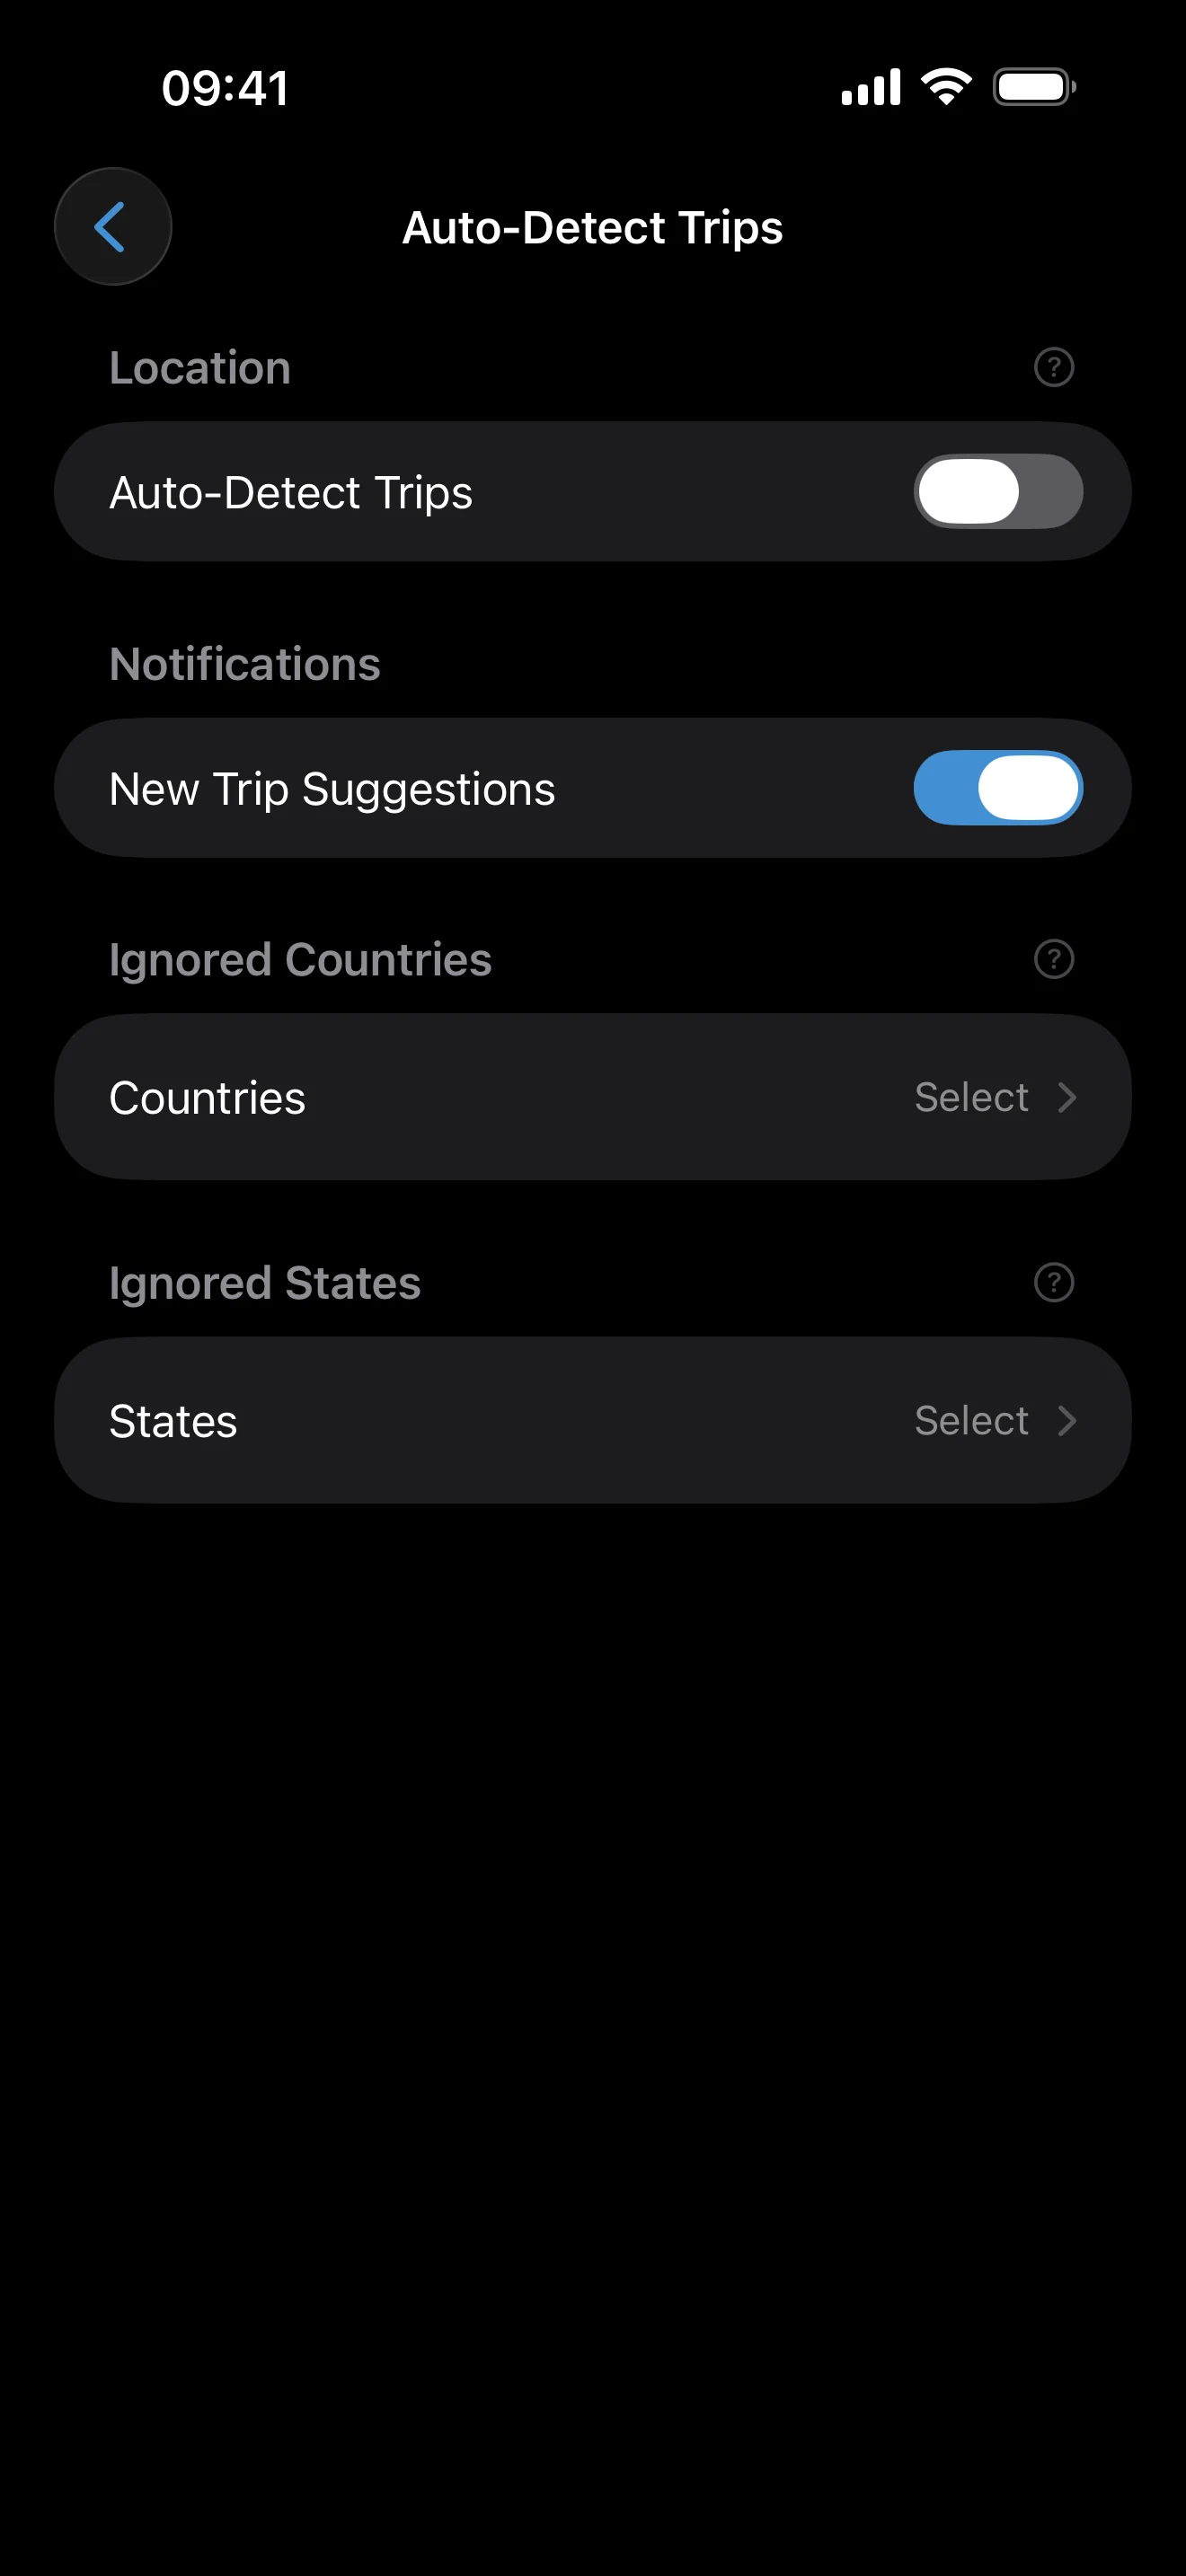
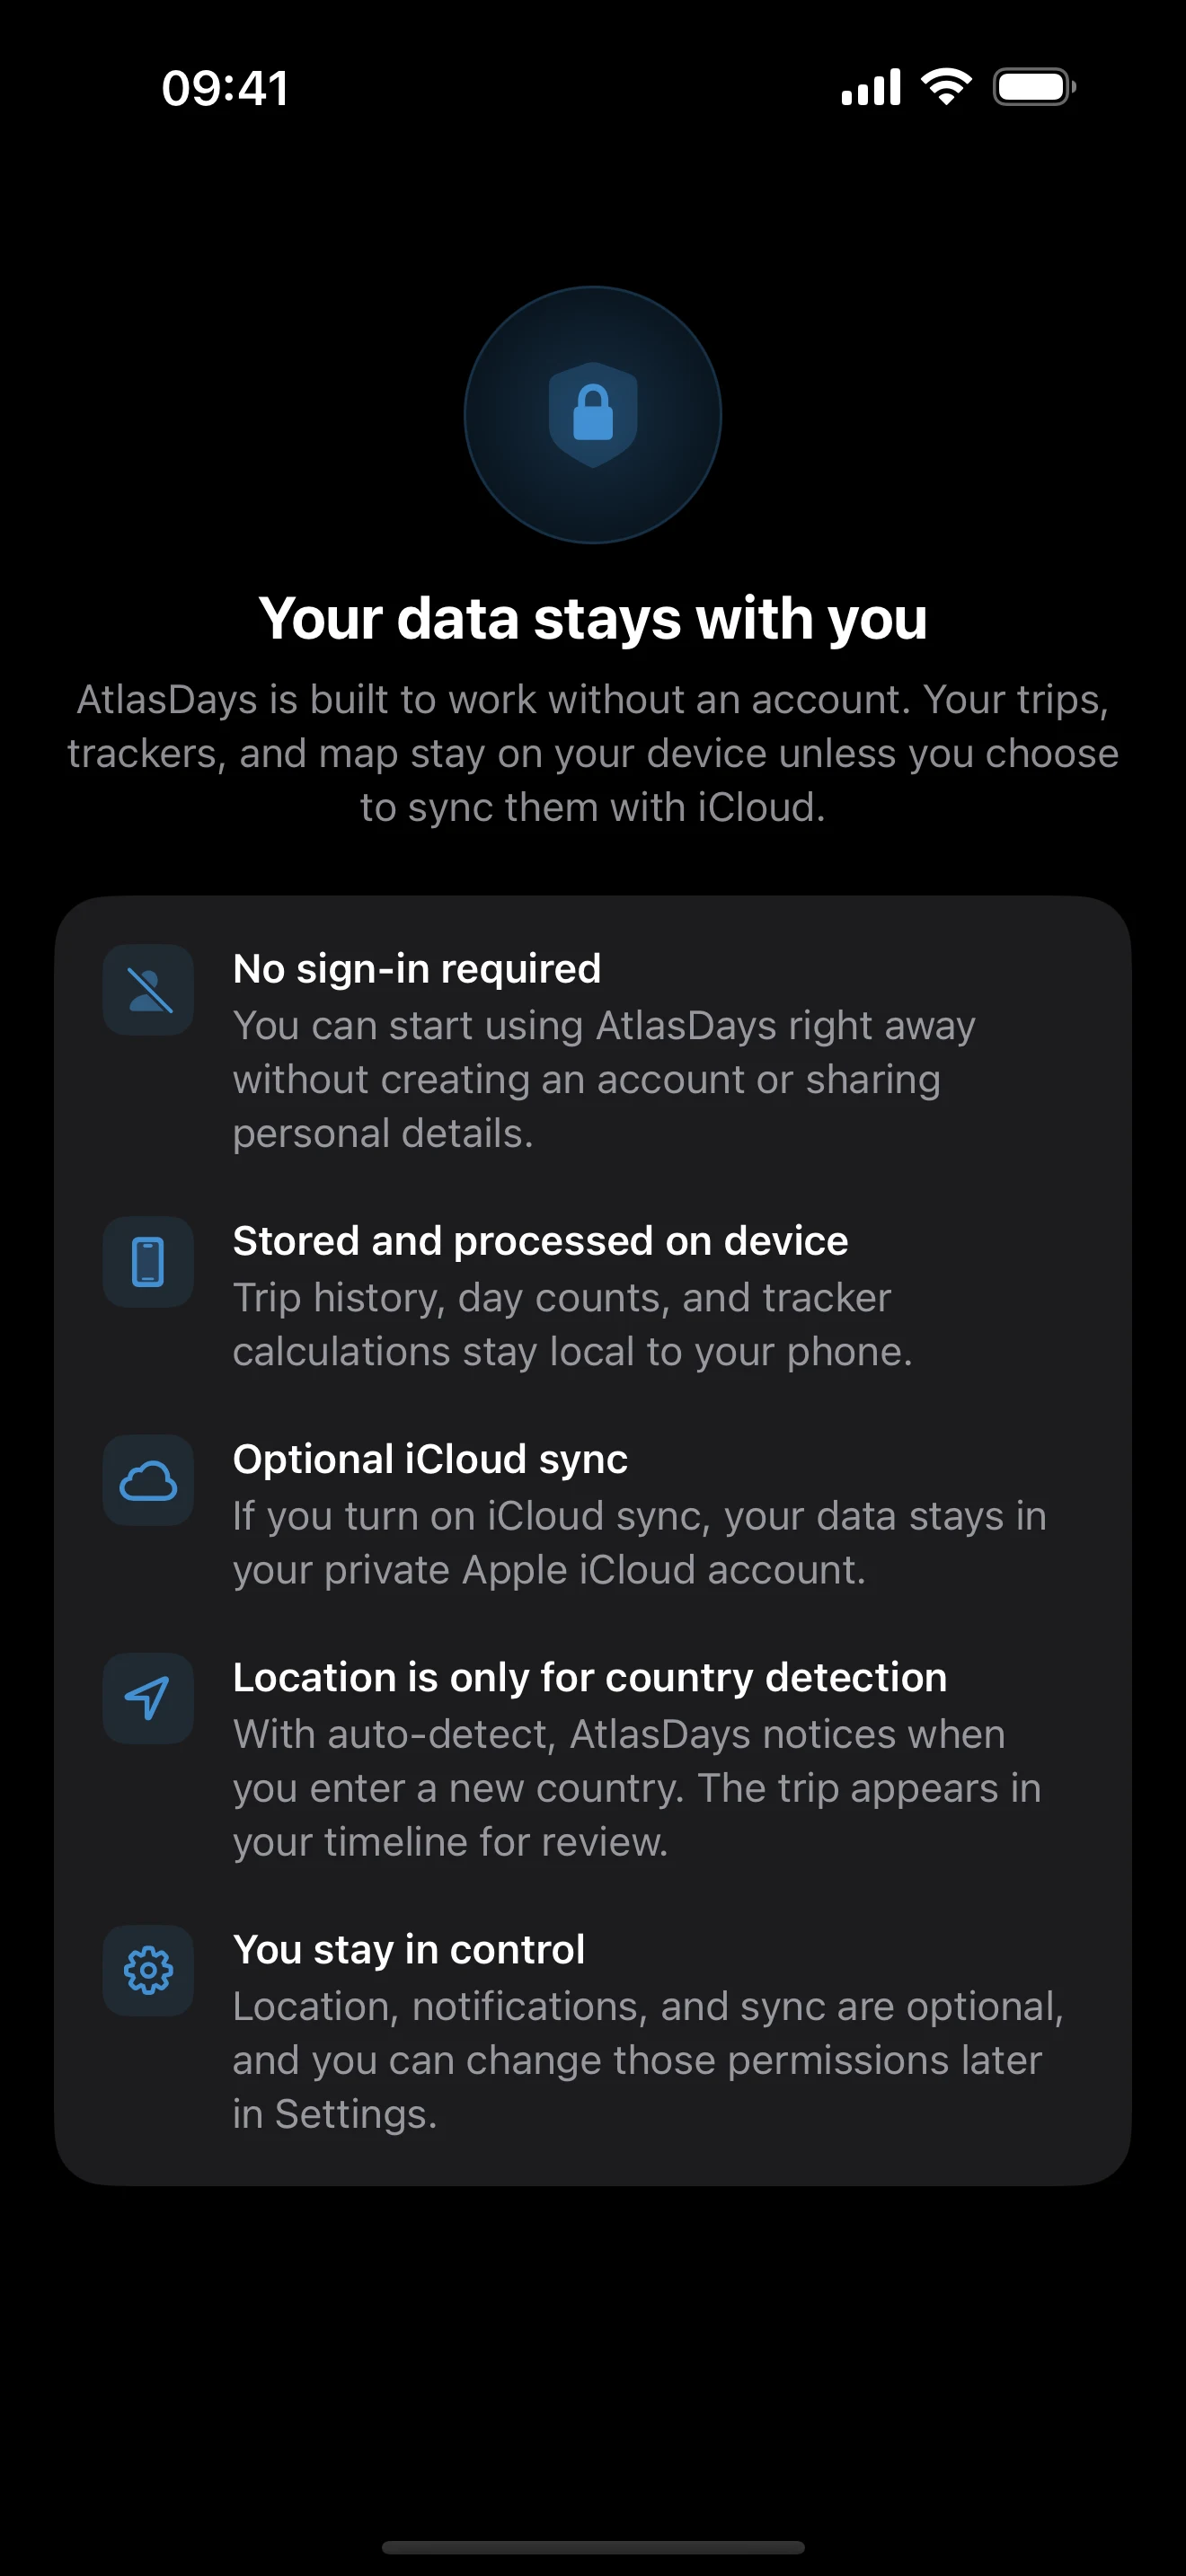
Update privacy messaging and screenshots

diff --git a/assets/js/legal-translations.js b/assets/js/legal-translations.js
@@ -6,7 +6,7 @@ window.AtlasDaysLegalTranslations = {
   <h1>AtlasDays App Privacy</h1>
   <p class="updated">Last updated: 20 July 2026</p>
 
-  <p class="lede">Your travel history, photos, and location remain on your device or in your private Apple iCloud account. AtlasDays has no user accounts or data servers.</p>
+  <p class="lede">Your travel history, photos, and location remain on your device or in your private Apple iCloud account. AtlasDays has no user accounts and no server copy of your travel history.</p>
 
   <div class="summary">
     <strong>In short</strong>
@@ -14,7 +14,7 @@ window.AtlasDaysLegalTranslations = {
       <li><strong>Your travel data, photos, and location remain private and under your control.</strong></li>
       <li><strong>Your travel history stays on your device.</strong> If you enable iCloud Sync, AtlasDays syncs it only through your private Apple iCloud account.</li>
       <li><strong>AtlasDays processes location and photo data on your device.</strong> It does not upload your photos or raw location data.</li>
-      <li><strong>The app has no user accounts, advertising, or analytics.</strong> AtlasDays does not sell or share your app data.</li>
+      <li><strong>The app has no user accounts or advertising.</strong> Anonymous app analytics help improve AtlasDays without including your travel history, photos, or location. AtlasDays does not sell your data.</li>
     </ul>
   </div>
 
@@ -45,7 +45,7 @@ window.AtlasDaysLegalTranslations = {
   <p>Sending feedback is optional. AtlasDays prepares an editable email that may include basic app, device, settings, permission, and usage information to help diagnose problems. You can review or remove this information before sending. If you send the email, its contents are used only for support and kept only as long as reasonably needed. You may request deletion by contacting support.</p>
 
   <h2>7. Analytics and Advertising</h2>
-  <p>AtlasDays has no advertising or third-party analytics SDKs and does not track your app use.</p>
+  <p>AtlasDays has no advertising and does not use analytics to track you. It uses anonymous app analytics to understand general usage and improve the app. These analytics do not include your travel history, photos, location, notes, or other content you add to AtlasDays.</p>
 
   <h2>8. Your Controls</h2>
   <p>You can delete travel data in Settings, revoke permissions in iOS Settings, and turn off iCloud Sync. Deleting app data does not cancel Apple purchases or subscriptions.</p>
@@ -119,7 +119,7 @@ window.AtlasDaysLegalTranslations = {
   <h1>Privacybeleid van AtlasDays</h1>
   <p class="updated">Laatst bijgewerkt: 20 juli 2026</p>
 
-  <p class="lede">Je reisgeschiedenis, foto’s en locatie blijven op je apparaat of in je eigen iCloud-account. AtlasDays heeft geen gebruikersaccounts en ontvangt deze gegevens niet op een eigen server.</p>
+  <p class="lede">Je reisgeschiedenis, foto’s en locatie blijven op je apparaat of in je eigen iCloud-account. AtlasDays heeft geen gebruikersaccounts en geen serverkopie van je reisgeschiedenis.</p>
 
   <div class="summary">
     <strong>In het kort</strong>
@@ -127,7 +127,7 @@ window.AtlasDaysLegalTranslations = {
       <li><strong>Je reisgegevens, foto’s en locatie blijven privé en onder jouw controle.</strong></li>
       <li><strong>Je reisgeschiedenis blijft op je apparaat.</strong> Als je iCloud-synchronisatie inschakelt, synchroniseert AtlasDays deze alleen via je eigen iCloud-account.</li>
       <li><strong>AtlasDays verwerkt locatie- en fotogegevens op je apparaat.</strong> De app uploadt geen foto’s of onbewerkte locatiegegevens.</li>
-      <li><strong>De app heeft geen gebruikersaccounts, advertenties of gebruiksanalyse.</strong> AtlasDays verkoopt of deelt je gegevens in de app niet.</li>
+      <li><strong>De app heeft geen gebruikersaccounts of advertenties.</strong> Anonieme app-analyse helpt AtlasDays te verbeteren zonder je reisgeschiedenis, foto’s of locatie te bevatten. AtlasDays verkoopt je gegevens niet.</li>
     </ul>
   </div>
 
@@ -158,7 +158,7 @@ window.AtlasDaysLegalTranslations = {
   <p>Feedback versturen is optioneel. AtlasDays stelt een bewerkbare e-mail op die basisinformatie over de app, het apparaat, instellingen, machtigingen en gebruik kan bevatten om problemen te helpen onderzoeken. Je kunt deze informatie vóór verzending controleren of verwijderen. Als je de e-mail verstuurt, wordt de inhoud alleen voor ondersteuning gebruikt en niet langer bewaard dan redelijkerwijs nodig is. Je kunt ondersteuning vragen om de e-mail te verwijderen.</p>
 
   <h2>7. Gebruiksanalyse en advertenties</h2>
-  <p>AtlasDays bevat geen advertenties of SDK’s van derden voor gebruiksanalyse en houdt je appgebruik niet bij.</p>
+  <p>AtlasDays bevat geen advertenties en gebruikt analysegegevens niet om je te volgen. De app gebruikt anonieme app-analyse om algemeen gebruik te begrijpen en de app te verbeteren. Deze analyse bevat niet je reisgeschiedenis, foto’s, locatie, notities of andere inhoud die je aan AtlasDays toevoegt.</p>
 
   <h2>8. Jouw keuzes</h2>
   <p>Je kunt reisgegevens verwijderen in de instellingen, machtigingen intrekken in de iOS-instellingen en iCloud-synchronisatie uitschakelen. Het verwijderen van appgegevens beëindigt geen aankopen of abonnementen bij Apple.</p>
@@ -232,7 +232,7 @@ window.AtlasDaysLegalTranslations = {
   <h1>Datenschutz bei AtlasDays</h1>
   <p class="updated">Zuletzt aktualisiert: 20. Juli 2026</p>
 
-  <p class="lede">Dein Reiseverlauf, deine Fotos und dein Standort bleiben auf deinem Gerät oder in deinem persönlichen iCloud-Account. AtlasDays hat keine Benutzerkonten oder Datenserver.</p>
+  <p class="lede">Dein Reiseverlauf, deine Fotos und dein Standort bleiben auf deinem Gerät oder in deinem persönlichen iCloud-Account. AtlasDays hat keine Benutzerkonten und keine Serverkopie deines Reiseverlaufs.</p>
 
   <div class="summary">
     <strong>Kurz gesagt</strong>
@@ -240,7 +240,7 @@ window.AtlasDaysLegalTranslations = {
       <li><strong>Deine Reisedaten, Fotos und dein Standort bleiben privat und unter deiner Kontrolle.</strong></li>
       <li><strong>Dein Reiseverlauf bleibt auf deinem Gerät.</strong> Wenn du die iCloud-Synchronisierung aktivierst, synchronisiert AtlasDays ihn ausschließlich über deinen persönlichen iCloud-Account.</li>
       <li><strong>AtlasDays verarbeitet Standort- und Fotodaten auf deinem Gerät.</strong> Die App lädt weder deine Fotos noch rohe Standortdaten hoch.</li>
-      <li><strong>Die App hat keine Benutzerkonten, Werbung oder Nutzungsanalyse.</strong> AtlasDays verkauft oder teilt deine Daten in der App nicht.</li>
+      <li><strong>Die App hat keine Benutzerkonten oder Werbung.</strong> Anonyme App-Analysen helfen, AtlasDays zu verbessern, ohne deinen Reiseverlauf, deine Fotos oder deinen Standort einzubeziehen. AtlasDays verkauft deine Daten nicht.</li>
     </ul>
   </div>
 
@@ -271,7 +271,7 @@ window.AtlasDaysLegalTranslations = {
   <p>Das Senden von Feedback ist optional. AtlasDays erstellt eine bearbeitbare E-Mail, die grundlegende Angaben zur App, zum Gerät, zu Einstellungen, Berechtigungen und zur Nutzung enthalten kann, um Probleme zu untersuchen. Du kannst diese Angaben vor dem Senden prüfen oder entfernen. Wenn du die E-Mail sendest, wird ihr Inhalt nur für Supportzwecke verwendet und nur so lange wie vernünftigerweise nötig aufbewahrt. Du kannst die Löschung beim Support anfordern.</p>
 
   <h2>7. Nutzungsanalyse und Werbung</h2>
-  <p>AtlasDays enthält keine Werbung oder Drittanbieter-SDKs zur Nutzungsanalyse und zeichnet deine App-Nutzung nicht auf.</p>
+  <p>AtlasDays enthält keine Werbung und verwendet Analysen nicht, um dich zu verfolgen. Die App nutzt anonyme App-Analysen, um die allgemeine Nutzung zu verstehen und die App zu verbessern. Diese Analysen enthalten weder deinen Reiseverlauf noch Fotos, Standort, Notizen oder andere Inhalte, die du zu AtlasDays hinzufügst.</p>
 
   <h2>8. Deine Möglichkeiten</h2>
   <p>Du kannst Reisedaten in den Einstellungen löschen, Berechtigungen in den iOS-Einstellungen entziehen und die iCloud-Synchronisierung deaktivieren. Das Löschen von App-Daten beendet keine Käufe oder Abonnements bei Apple.</p>
@@ -345,7 +345,7 @@ window.AtlasDaysLegalTranslations = {
   <h1>Política de privacidad de AtlasDays</h1>
   <p class="updated">Última actualización: 20 de julio de 2026</p>
 
-  <p class="lede">Tu historial de viajes, tus fotos y tu ubicación permanecen en tu dispositivo o en tu propia cuenta de iCloud. AtlasDays no tiene cuentas de usuario ni servidores de datos.</p>
+  <p class="lede">Tu historial de viajes, tus fotos y tu ubicación permanecen en tu dispositivo o en tu propia cuenta de iCloud. AtlasDays no tiene cuentas de usuario ni una copia de tu historial de viajes en sus servidores.</p>
 
   <div class="summary">
     <strong>En resumen</strong>
@@ -353,7 +353,7 @@ window.AtlasDaysLegalTranslations = {
       <li><strong>Tus datos de viaje, tus fotos y tu ubicación permanecen privados y bajo tu control.</strong></li>
       <li><strong>Tu historial de viajes permanece en tu dispositivo.</strong> Si activas la sincronización con iCloud, AtlasDays lo sincroniza únicamente mediante tu propia cuenta de iCloud.</li>
       <li><strong>AtlasDays procesa los datos de ubicación y de las fotos en tu dispositivo.</strong> La app no sube tus fotos ni los datos de ubicación sin procesar.</li>
-      <li><strong>La app no tiene cuentas de usuario, publicidad ni herramientas de análisis.</strong> AtlasDays no vende ni comparte tus datos en la app.</li>
+      <li><strong>La app no tiene cuentas de usuario ni publicidad.</strong> El análisis anónimo de la app ayuda a mejorar AtlasDays sin incluir tu historial de viajes, tus fotos ni tu ubicación. AtlasDays no vende tus datos.</li>
     </ul>
   </div>
 
@@ -384,7 +384,7 @@ window.AtlasDaysLegalTranslations = {
   <p>Enviar comentarios es opcional. AtlasDays prepara un correo electrónico editable que puede incluir información básica sobre la app, el dispositivo, los ajustes, los permisos y el uso para ayudar a diagnosticar problemas. Puedes revisar o eliminar esta información antes de enviarlo. Si envías el correo, su contenido se utilizará únicamente para prestar asistencia y se conservará solo durante el tiempo razonablemente necesario. Puedes solicitar su eliminación al equipo de asistencia.</p>
 
   <h2>7. Análisis y publicidad</h2>
-  <p>AtlasDays no incluye publicidad ni SDK de análisis de terceros y no registra cómo utilizas la app.</p>
+  <p>AtlasDays no incluye publicidad ni utiliza el análisis para rastrearte. Usa análisis anónimos de la app para comprender el uso general y mejorarla. Estos análisis no incluyen tu historial de viajes, fotos, ubicación, notas ni otros contenidos que añadas a AtlasDays.</p>
 
   <h2>8. Tus opciones</h2>
   <p>Puedes eliminar los datos de viaje en los ajustes, retirar permisos en los ajustes de iOS y desactivar la sincronización con iCloud. Eliminar los datos de la app no cancela las compras ni las suscripciones de Apple.</p>
@@ -458,7 +458,7 @@ window.AtlasDaysLegalTranslations = {
   <h1>Politique de confidentialité d’AtlasDays</h1>
   <p class="updated">Dernière mise à jour : 20 juillet 2026</p>
 
-  <p class="lede">Votre historique de voyage, vos photos et votre position restent sur votre appareil ou dans votre compte iCloud personnel. AtlasDays ne possède aucun compte utilisateur ni serveur de données.</p>
+  <p class="lede">Votre historique de voyage, vos photos et votre position restent sur votre appareil ou dans votre compte iCloud personnel. AtlasDays ne possède aucun compte utilisateur ni copie de votre historique de voyage sur ses serveurs.</p>
 
   <div class="summary">
     <strong>En bref</strong>
@@ -466,7 +466,7 @@ window.AtlasDaysLegalTranslations = {
       <li><strong>Vos données de voyage, vos photos et votre position restent privées et sous votre contrôle.</strong></li>
       <li><strong>Votre historique de voyage reste sur votre appareil.</strong> Si vous activez la synchronisation iCloud, AtlasDays le synchronise uniquement via votre compte iCloud personnel.</li>
       <li><strong>AtlasDays traite les données de position et de photo sur votre appareil.</strong> L’app ne téléverse ni vos photos ni les données de position brutes.</li>
-      <li><strong>L’app ne comporte aucun compte utilisateur, aucune publicité et aucun outil d’analyse.</strong> AtlasDays ne vend ni ne partage vos données dans l’app.</li>
+      <li><strong>L’app ne comporte aucun compte utilisateur ni aucune publicité.</strong> L’analyse anonyme de l’app aide à améliorer AtlasDays sans inclure votre historique de voyage, vos photos ou votre position. AtlasDays ne vend pas vos données.</li>
     </ul>
   </div>
 
@@ -497,7 +497,7 @@ window.AtlasDaysLegalTranslations = {
   <p>L’envoi de commentaires est facultatif. AtlasDays prépare un e-mail modifiable qui peut inclure des informations générales sur l’app, l’appareil, les réglages, les autorisations et l’utilisation afin d’aider à diagnostiquer les problèmes. Vous pouvez vérifier ou supprimer ces informations avant l’envoi. Si vous envoyez l’e-mail, son contenu est utilisé uniquement à des fins d’assistance et conservé pendant une durée raisonnablement nécessaire. Vous pouvez demander sa suppression à l’assistance.</p>
 
   <h2>7. Analyse et publicité</h2>
-  <p>AtlasDays ne contient aucune publicité ni aucun SDK d’analyse tiers et ne suit pas votre utilisation de l’app.</p>
+  <p>AtlasDays ne contient aucune publicité et n’utilise pas l’analyse pour vous suivre. L’app utilise une analyse anonyme pour comprendre son utilisation générale et l’améliorer. Cette analyse n’inclut pas votre historique de voyage, vos photos, votre position, vos notes ni les autres contenus que vous ajoutez à AtlasDays.</p>
 
   <h2>8. Vos choix</h2>
   <p>Vous pouvez supprimer vos données de voyage dans les réglages, retirer les autorisations dans les réglages d’iOS et désactiver la synchronisation iCloud. La suppression des données de l’app n’annule pas les achats ou abonnements Apple.</p>
@@ -571,7 +571,7 @@ window.AtlasDaysLegalTranslations = {
   <h1>Политика конфиденциальности AtlasDays</h1>
   <p class="updated">Последнее обновление: 20 июля 2026 г.</p>
 
-  <p class="lede">Ваша история поездок, фотографии и данные о местоположении остаются на вашем устройстве или в вашей личной учётной записи iCloud. В AtlasDays нет учётных записей пользователей и серверов данных.</p>
+  <p class="lede">Ваша история поездок, фотографии и данные о местоположении остаются на вашем устройстве или в вашей личной учётной записи iCloud. В AtlasDays нет учётных записей пользователей и серверной копии вашей истории поездок.</p>
 
   <div class="summary">
     <strong>Кратко</strong>
@@ -579,7 +579,7 @@ window.AtlasDaysLegalTranslations = {
       <li><strong>Ваши данные о поездках, фотографии и данные о местоположении остаются конфиденциальными и под вашим контролем.</strong></li>
       <li><strong>История поездок остаётся на вашем устройстве.</strong> Если включить синхронизацию с iCloud, AtlasDays будет синхронизировать её только через вашу личную учётную запись iCloud.</li>
       <li><strong>AtlasDays обрабатывает данные о местоположении и фотографиях на вашем устройстве.</strong> Приложение не загружает ваши фотографии или необработанные данные о местоположении.</li>
-      <li><strong>В приложении нет учётных записей пользователей, рекламы или средств аналитики.</strong> AtlasDays не продаёт и не передаёт ваши данные в приложении.</li>
+      <li><strong>В приложении нет учётных записей пользователей или рекламы.</strong> Анонимная аналитика приложения помогает улучшать AtlasDays, не включая историю поездок, фотографии или местоположение. AtlasDays не продаёт ваши данные.</li>
     </ul>
   </div>
 
@@ -610,7 +610,7 @@ window.AtlasDaysLegalTranslations = {
   <p>Отправлять отзыв необязательно. AtlasDays подготавливает редактируемое электронное письмо, которое может содержать основные сведения о приложении, устройстве, настройках, разрешениях и использовании, чтобы помочь диагностировать проблемы. Перед отправкой эти сведения можно проверить или удалить. Если вы отправите письмо, его содержимое будет использоваться только для поддержки и храниться лишь в течение разумно необходимого срока. Вы можете обратиться в службу поддержки с просьбой удалить письмо.</p>
 
   <h2>7. Аналитика и реклама</h2>
-  <p>В AtlasDays нет рекламы или сторонних SDK аналитики, и приложение не отслеживает, как вы им пользуетесь.</p>
+  <p>В AtlasDays нет рекламы, и аналитика не используется для отслеживания пользователей. Анонимная аналитика приложения помогает понимать общие особенности использования и улучшать AtlasDays. Она не включает историю поездок, фотографии, местоположение, заметки или другой контент, который вы добавляете в AtlasDays.</p>
 
   <h2>8. Ваши возможности</h2>
   <p>В настройках можно удалить данные о поездках, отозвать разрешения в настройках iOS и отключить синхронизацию с iCloud. Удаление данных приложения не отменяет покупки или подписки Apple.</p>

diff --git a/privacy.html b/privacy.html
@@ -75,7 +75,7 @@
   <h1>AtlasDays App Privacy</h1>
   <p class="updated">Last updated: July 20, 2026</p>
 
-  <p class="lede">Your travel history, photos, and location remain on your device or in your private Apple iCloud account. AtlasDays has no user accounts or data servers.</p>
+  <p class="lede">Your travel history, photos, and location remain on your device or in your private Apple iCloud account. AtlasDays has no user accounts and no server copy of your travel history.</p>
 
   <div class="summary">
     <strong>In short</strong>
@@ -83,7 +83,7 @@
       <li><strong>Your travel data, photos, and location remain private and under your control.</strong></li>
       <li><strong>Your travel history stays on your device.</strong> If you enable iCloud Sync, AtlasDays syncs it only through your private Apple iCloud account.</li>
       <li><strong>AtlasDays processes location and photo data on your device.</strong> It does not upload your photos or raw location data.</li>
-      <li><strong>The app has no user accounts, advertising, or analytics.</strong> AtlasDays does not sell or share your app data.</li>
+      <li><strong>The app has no user accounts or advertising.</strong> Anonymous app analytics help improve AtlasDays without including your travel history, photos, or location. AtlasDays does not sell your data.</li>
     </ul>
   </div>
 
@@ -114,7 +114,7 @@
   <p>Sending feedback is optional. AtlasDays prepares an editable email that may include basic app, device, settings, permission, and usage information to help diagnose problems. You can review or remove this information before sending. If you send the email, its contents are used only for support and kept only as long as reasonably needed. You may request deletion by contacting support.</p>
 
   <h2>7. Analytics and Advertising</h2>
-  <p>AtlasDays has no advertising or third-party analytics SDKs and does not track your app use.</p>
+  <p>AtlasDays has no advertising and does not use analytics to track you. It uses anonymous app analytics to understand general usage and improve the app. These analytics do not include your travel history, photos, location, notes, or other content you add to AtlasDays.</p>
 
   <h2>8. Your Controls</h2>
   <p>You can delete travel data in Settings, revoke permissions in iOS Settings, and turn off iCloud Sync. Deleting app data does not cancel Apple purchases or subscriptions.</p>
@@ -127,7 +127,7 @@
   <p>Send questions or deletion requests to <a href="#contact" id="privacy-email" data-email-user="support" data-email-domain="atlasdays.app">AtlasDays support</a>.</p>
 
 </main>
-<script src="assets/js/legal-translations.js?v=20260720b"></script>
+<script src="assets/js/legal-translations.js?v=20260720c"></script>
 <script src="assets/js/legal-language.js?v=20260720b"></script>
 
   <footer class="site-footer">

diff --git a/_site-src/content/pages/privacy.html b/_site-src/content/pages/privacy.html
@@ -4,7 +4,7 @@
   <h1>AtlasDays App Privacy</h1>
   <p class="updated">Last updated: July 20, 2026</p>
 
-  <p class="lede">Your travel history, photos, and location remain on your device or in your private Apple iCloud account. AtlasDays has no user accounts or data servers.</p>
+  <p class="lede">Your travel history, photos, and location remain on your device or in your private Apple iCloud account. AtlasDays has no user accounts and no server copy of your travel history.</p>
 
   <div class="summary">
     <strong>In short</strong>
@@ -12,7 +12,7 @@
       <li><strong>Your travel data, photos, and location remain private and under your control.</strong></li>
       <li><strong>Your travel history stays on your device.</strong> If you enable iCloud Sync, AtlasDays syncs it only through your private Apple iCloud account.</li>
       <li><strong>AtlasDays processes location and photo data on your device.</strong> It does not upload your photos or raw location data.</li>
-      <li><strong>The app has no user accounts, advertising, or analytics.</strong> AtlasDays does not sell or share your app data.</li>
+      <li><strong>The app has no user accounts or advertising.</strong> Anonymous app analytics help improve AtlasDays without including your travel history, photos, or location. AtlasDays does not sell your data.</li>
     </ul>
   </div>
 
@@ -43,7 +43,7 @@
   <p>Sending feedback is optional. AtlasDays prepares an editable email that may include basic app, device, settings, permission, and usage information to help diagnose problems. You can review or remove this information before sending. If you send the email, its contents are used only for support and kept only as long as reasonably needed. You may request deletion by contacting support.</p>
 
   <h2>7. Analytics and Advertising</h2>
-  <p>AtlasDays has no advertising or third-party analytics SDKs and does not track your app use.</p>
+  <p>AtlasDays has no advertising and does not use analytics to track you. It uses anonymous app analytics to understand general usage and improve the app. These analytics do not include your travel history, photos, location, notes, or other content you add to AtlasDays.</p>
 
   <h2>8. Your Controls</h2>
   <p>You can delete travel data in Settings, revoke permissions in iOS Settings, and turn off iCloud Sync. Deleting app data does not cancel Apple purchases or subscriptions.</p>

diff --git a/index.html b/index.html
@@ -367,12 +367,11 @@
                 <span class="pill">No AtlasDays server copy</span>
                 <span class="pill">On-device calculations</span>
                 <span class="pill">Optional Photos access</span>
-                <span class="pill">No third-party analytics SDKs</span>
               </div>
               <div class="disclaimer">Read the <a href="/privacy">App Privacy page</a>, <a href="/help/photo-import">Photo Import guide</a>, and <a href="/help/privacy-location-and-sync">Privacy, Location, and Sync guide</a> for the exact storage, location, Photos access, and sync model.</div>
             </div>
             <div class="privacy-visual">
-              <img src="assets/home/home-proof-privacy.webp" alt="AtlasDays privacy and location screen explaining optional country suggestions and optional iCloud sync" width="1206" height="2622" loading="lazy" />
+              <img src="assets/home/home-proof-privacy.webp?v=20260720c" alt="AtlasDays Privacy sheet explaining that travel data stays on the device with optional iCloud sync" width="1320" height="2868" loading="lazy" />
             </div>
           </div>
         </div>

diff --git a/scripts/capture_website_screenshots.py b/scripts/capture_website_screenshots.py
@@ -167,7 +167,9 @@ def main() -> int:
             )
             run([
                 "/usr/bin/xcrun", "simctl", "launch", "--terminate-running-process",
-                udid, BUNDLE_ID, "--ui-testing", "--website-screenshot", scenario,
+                udid, BUNDLE_ID,
+                "--ui-testing", "--website-screenshot", scenario,
+                "-AppleLanguages", "(en-US)", "-AppleLocale", "en_US",
             ], env=env, dry_run=args.dry_run)
             if not args.dry_run:
                 time.sleep(float(capture.get("settle_seconds", 4)))